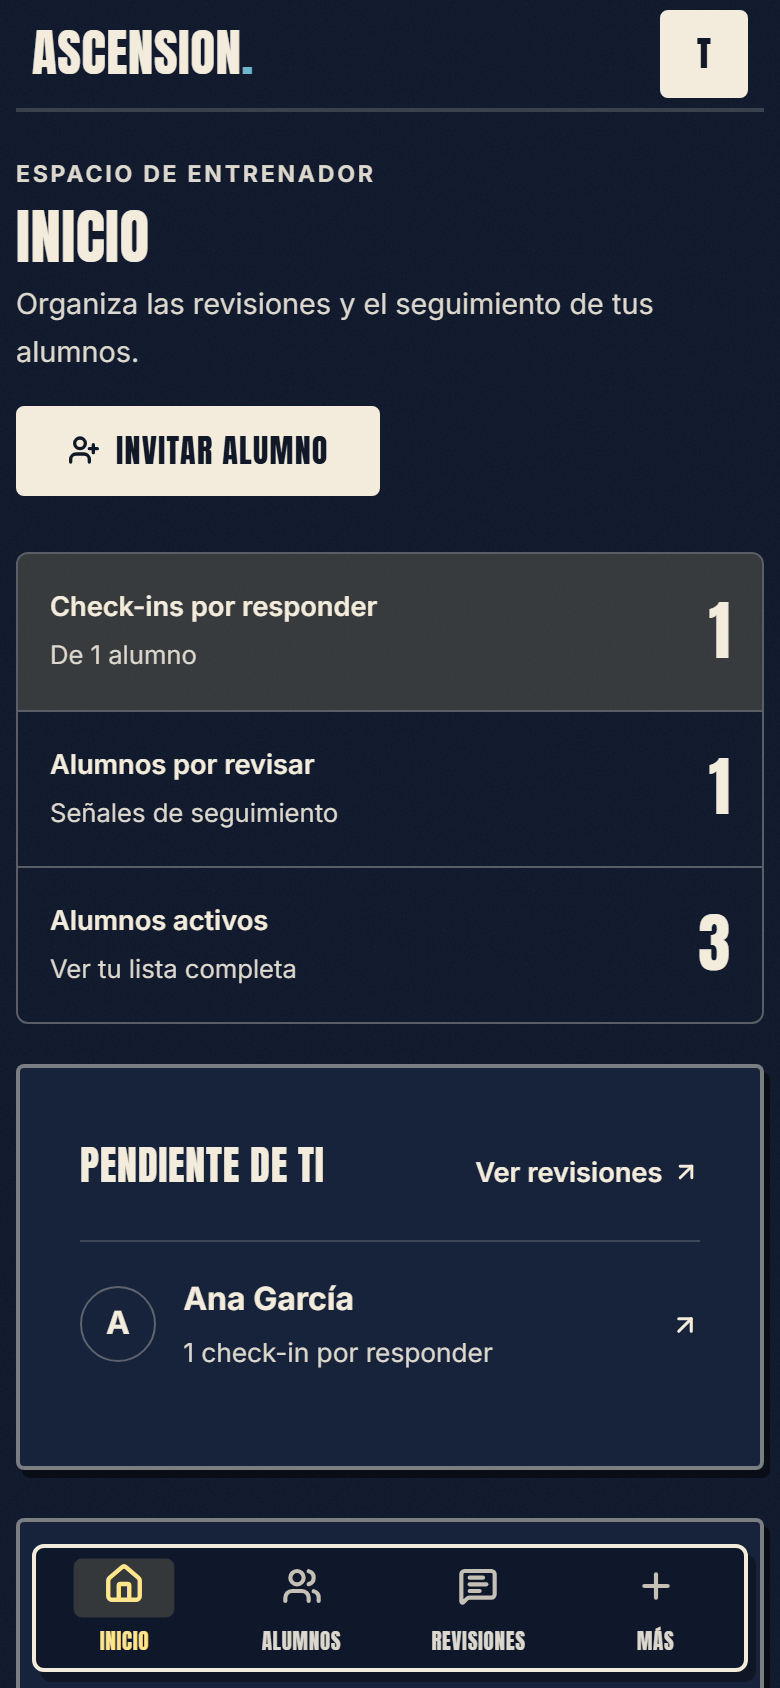
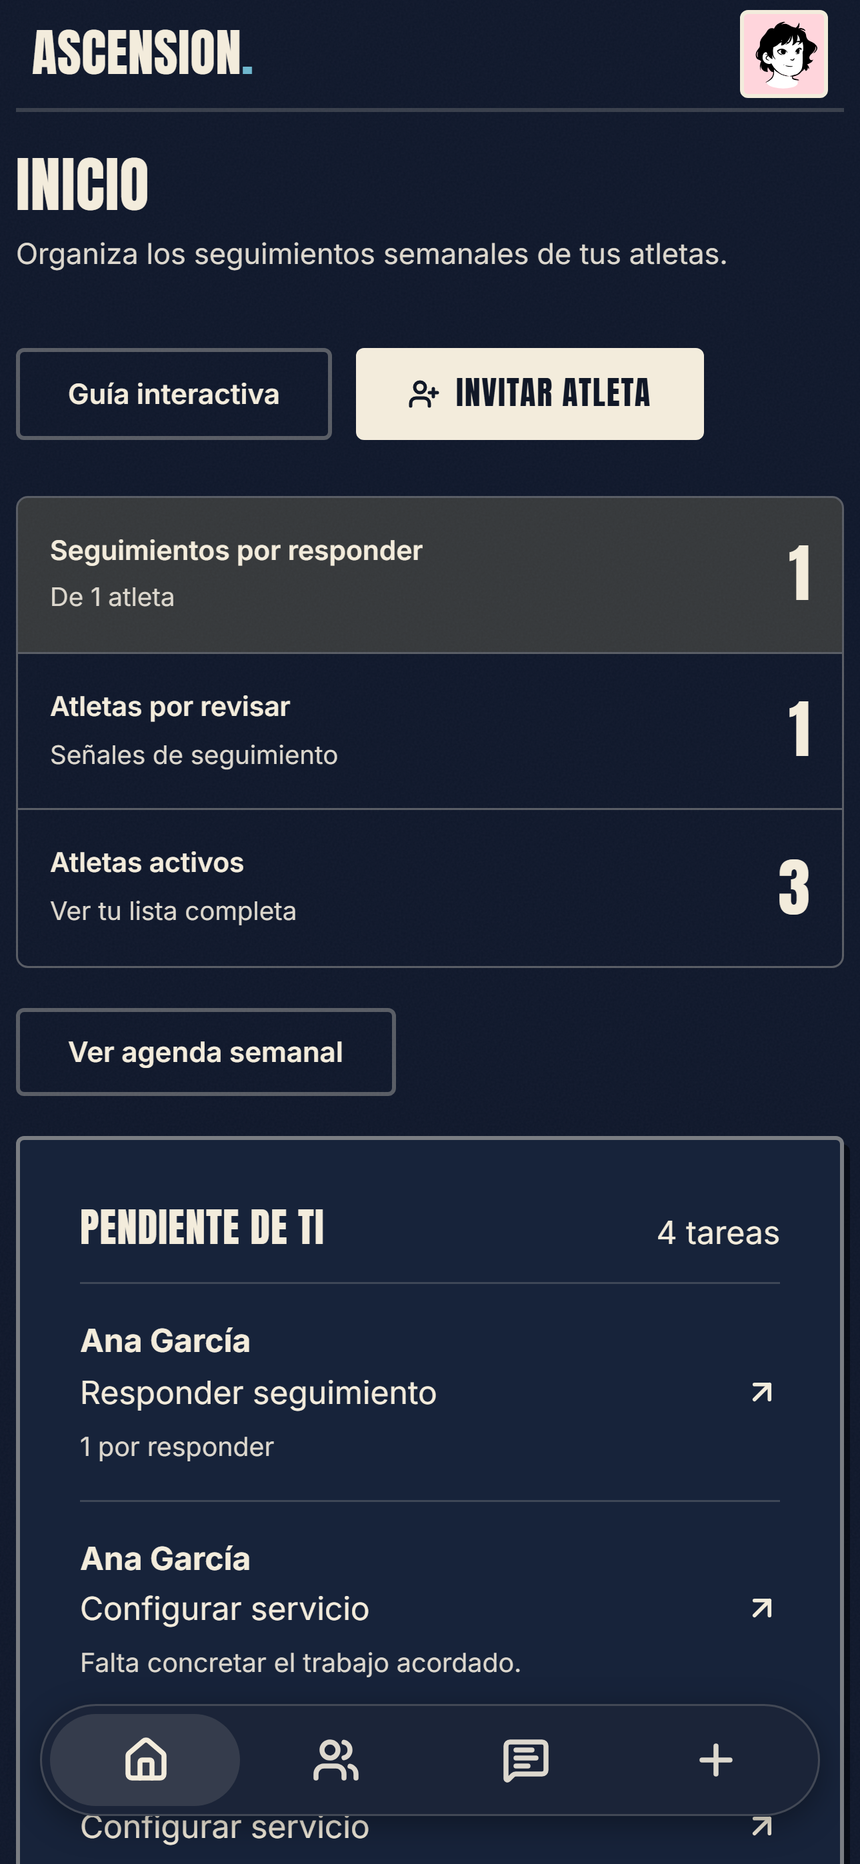
docs: README al día con las capturas nuevas

diff --git a/README.md b/README.md
@@ -6,7 +6,7 @@
 
 **Entrenamiento, nutrición y progreso personal, con un espacio propio para entrenadores y atletas.**
 
-Aplicación full-stack con Java y React: desde el registro de una serie en el gimnasio hasta la revisión semanal de un atleta.
+Aplicación full-stack con Java y React: desde el registro de una serie en el gimnasio hasta el seguimiento semanal de un atleta.
 
 [![Abrir la app](https://img.shields.io/badge/Abrir_la_app-ascension.raclos.es-f2c94c?style=for-the-badge&logo=googlechrome&logoColor=black)](https://ascension.raclos.es)
 [![CI](https://img.shields.io/github/actions/workflow/status/RaclosDev/ascension-tracker/ci.yml?branch=main&style=for-the-badge&label=CI&logo=githubactions&logoColor=white)](https://github.com/RaclosDev/ascension-tracker/actions/workflows/ci.yml)
@@ -33,20 +33,20 @@ Aplicación full-stack con Java y React: desde el registro de una serie en el gi
     <td align="center" width="33%"><img src="docs/screenshots/nutrition.png" alt="Diario de nutrición con calorías y macronutrientes" width="240"><br><sub><b>Nutrición</b> · calorías y macros del día</sub></td>
   </tr>
   <tr>
-    <td align="center"><img src="docs/screenshots/coach.png" alt="Espacio del entrenador con revisiones pendientes y atletas que necesitan seguimiento" width="240"><br><sub><b>Entrenador</b> · qué necesita atención</sub></td>
+    <td align="center"><img src="docs/screenshots/coach.png" alt="Inicio del entrenador con seguimientos por responder, atletas por revisar y tareas pendientes" width="240"><br><sub><b>Entrenador</b> · qué necesita atención</sub></td>
     <td align="center"><img src="docs/screenshots/coach-clients.png" alt="Listado de atletas con búsqueda y acceso a su ficha" width="240"><br><sub><b>Atletas</b> · una ficha para cada persona</sub></td>
-    <td align="center"><img src="docs/screenshots/coach-review.png" alt="Revisión semanal de una atleta con energía, sueño, adherencia y respuesta del entrenador" width="240"><br><sub><b>Revisiones</b> · seguimiento y respuesta semanal</sub></td>
+    <td align="center"><img src="docs/screenshots/coach-review.png" alt="Ficha de una atleta con sus pestañas y el seguimiento semanal pendiente de respuesta" width="240"><br><sub><b>Ficha de atleta</b> · seguimiento y respuesta semanal</sub></td>
   </tr>
 </table>
 
-<sub>Interfaz React real, capturada con datos ficticios y API simulada. [Más pantallas y cómo reproducirlas](docs/screenshots/README.md).</sub>
+<sub>Interfaz React real con la sesión iniciada, capturada en noviembre de 2026 con datos ficticios y API simulada. [Más pantallas y cómo reproducirlas](docs/screenshots/README.md).</sub>
 
 ## Qué hace
 
 - **Entrenar:** crear rutinas, registrar series y variantes, consultar historial y récords, y controlar los descansos con avisos push. El entreno en curso se conserva localmente entre recargas.
 - **Registrar comidas:** buscar alimentos, escanear códigos de barras, guardar recetas y seguir calorías y macros. Gemini ayuda a estimar comidas a partir de una foto y propone recetas; las estimaciones se pueden revisar antes de guardarlas.
 - **Ver el progreso:** peso, pasos y resúmenes semanales, junto con fotos privadas y mapa de recuperación muscular. Importación de sesiones desde Hevy y exportación/restauración de datos.
-- **Trabajar como entrenador:** inicio con tareas pendientes, cartera de atletas, agenda de revisiones y ajustes profesionales. Bibliotecas de programas y pautas nutricionales con versiones, adaptación individual, borradores y permisos de cada atleta.
+- **Trabajar como entrenador:** inicio con tareas pendientes, cartera de atletas, agenda semanal y ajustes profesionales. Cada atleta tiene una ficha con resumen, registro, planificación y seguimientos semanales, y sus entrenos se pueden comparar entre sí. Bibliotecas de programas y pautas nutricionales con versiones, adaptación individual, borradores y permisos de cada atleta.
 - **Preparar powerlifting:** perfiles y marcas de sentadilla, banca y peso muerto; competiciones con bloques y nueve intentos; seguimiento de cargas, volumen y RPE desde las sesiones. Las estimaciones de fuerza y los totales de competición se muestran por separado. [Funcionamiento y límites](docs/powerlifting.md).
 - **Empezar como atleta:** invitación del entrenador, configuración inicial guiada y permisos para decidir qué datos compartir y qué puede pautar el entrenador.
 - **Acceder a la cuenta:** Google, email y contraseña, o llaves de acceso (*passkeys*), con recuperación de contraseña por correo.

diff --git a/docs/screenshots/README.md b/docs/screenshots/README.md
@@ -1,6 +1,6 @@
 # Capturas móviles
 
-Las capturas del README muestran la interfaz React real con datos ficticios: ocho semanas de peso, seis de entrenos con una rutina torso/pierna, un día de comidas y un entrenador con tres atletas. La API se simula en el navegador; no se accede a cuentas ni bases de datos reales.
+Las capturas del README muestran la interfaz React real con la sesión iniciada y datos ficticios: ocho semanas de peso, seis de entrenos con una rutina torso/pierna, un día de comidas y un entrenador con tres atletas. La API se simula en el navegador; no se accede a cuentas ni bases de datos reales. Las fotos de perfil son avatares ilustrados ([DiceBear Lorelei](https://www.dicebear.com/styles/lorelei/), CC0) guardados en `avatars.json`.
 
 - [landing.png](landing.png): portada pública, sin sesión.
 - [dashboard.png](dashboard.png): peso, entreno y comidas del día.
@@ -8,12 +8,12 @@ Las capturas del README muestran la interfaz React real con datos ficticios: och
 - [nutrition.png](nutrition.png): diario con calorías y macronutrientes.
 - [training.png](training.png): resumen de entreno con recuperación muscular y actividad.
 - [workout.png](workout.png): entreno en curso con series completadas.
-- [coach.png](coach.png): espacio del entrenador con revisiones pendientes y señales de seguimiento.
+- [coach.png](coach.png): inicio del entrenador con seguimientos por responder, atletas por revisar y tareas pendientes.
 - [coach-clients.png](coach-clients.png): lista de atletas con búsqueda y acceso a su ficha.
-- [coach-review.png](coach-review.png): check-in semanal de una atleta con energía, sueño, adherencia y respuesta.
+- [coach-review.png](coach-review.png): ficha de una atleta en la pestaña de seguimientos, con el seguimiento semanal por responder.
 - [hero.jpg](hero.jpg): composición de la cabecera a partir de `workout`, `coach` y `nutrition`.
 
-Todas usan una ventana móvil de 390 × 844 píxeles CSS, densidad 2× y una hora fija de media tarde. La app usa modo oscuro; la portada pública tiene su propio diseño claro de papel. El script espera a las fuentes reales Inter y Anton, comprueba que no hay desbordamiento horizontal del documento y falla ante errores de página o llamadas a la API sin simular.
+Todas usan una ventana móvil de 430 × 932 píxeles CSS y una hora fija de media tarde. El script captura a densidad 3× (1290 × 2796); las imágenes del repositorio están reducidas a 860 × 1864. La app usa modo oscuro; la portada pública tiene su propio diseño claro de papel. El script espera a las fuentes reales Inter y Anton, comprueba que no hay desbordamiento horizontal del documento y falla ante errores de página o llamadas a la API sin simular.
 
 ## Reproducirlas
 
